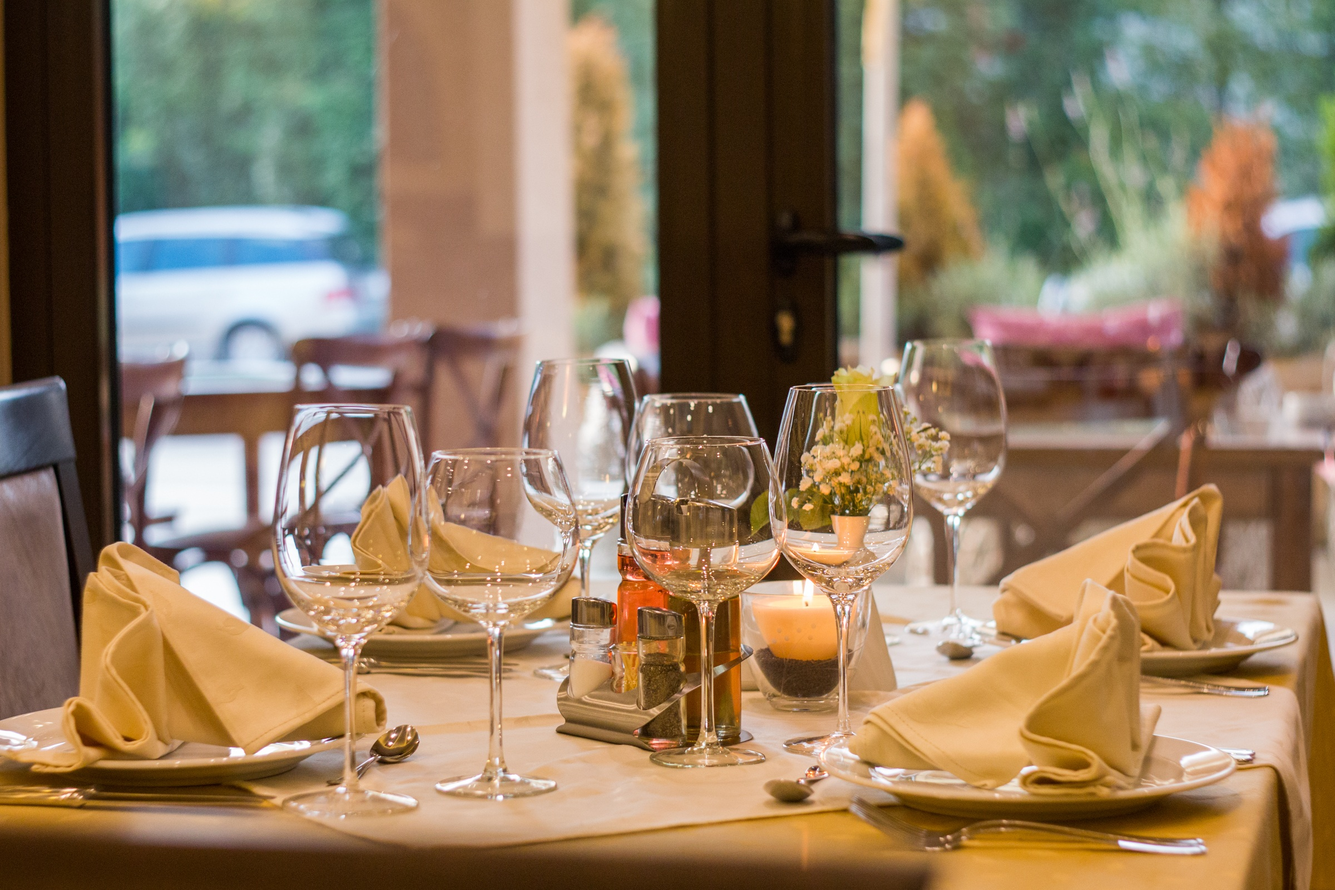
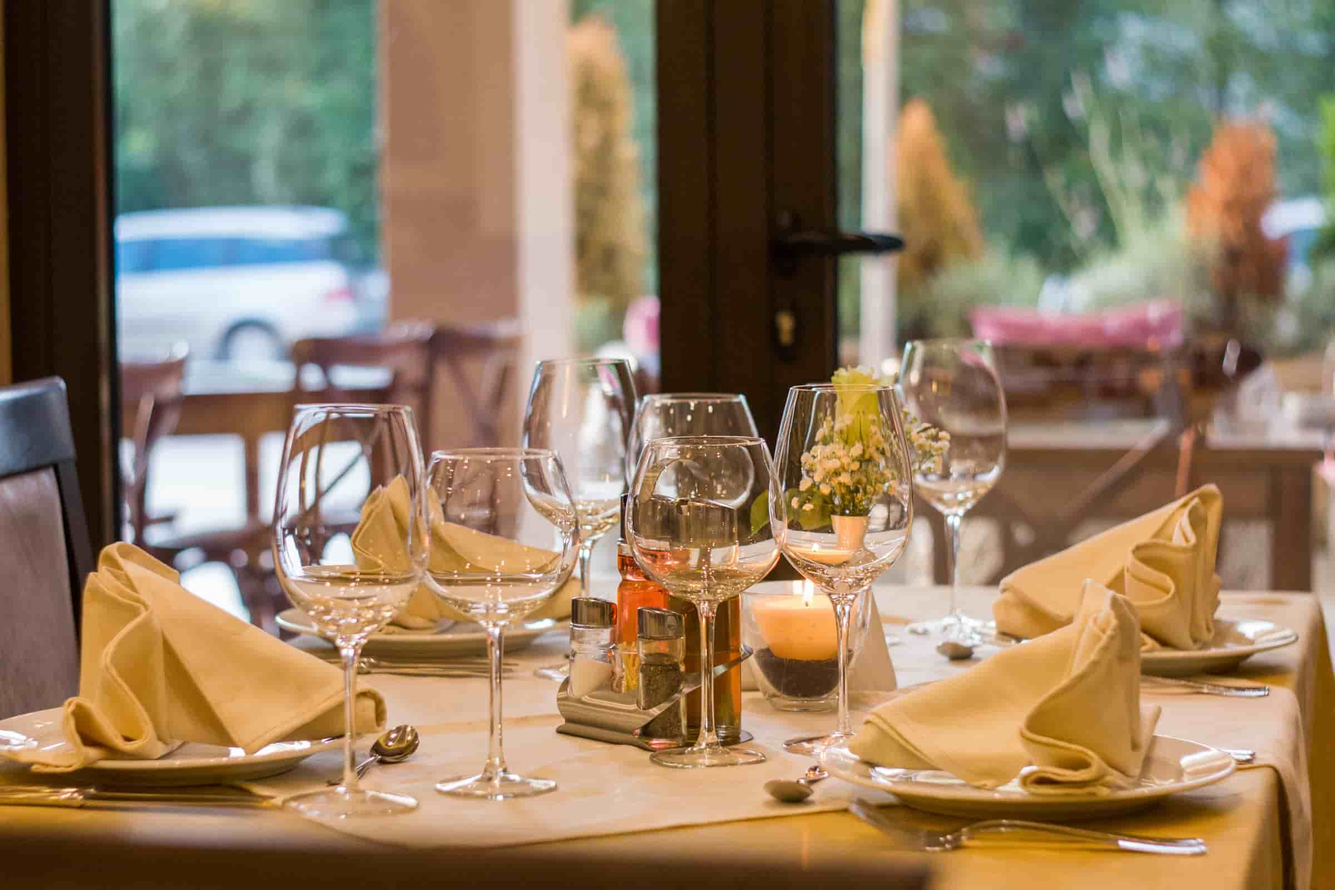
Update background image

diff --git a/src/components/App/style.js b/src/components/App/style.js
@@ -2,7 +2,7 @@
  * Created by nitesood on 11-Feb-18.
  */
 
-import BackgroundImage from '../../images/background.jpeg';
+import BackgroundImage from '../../images/background.jpg';
 
 export default {
   overLay: {
